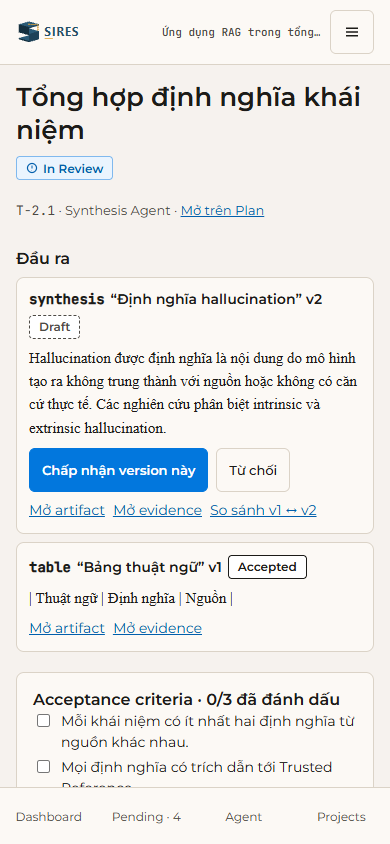
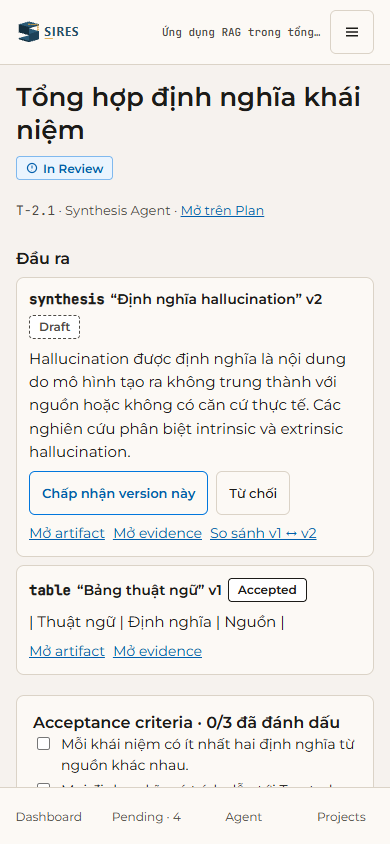
PID-00082: qc-report.md (QC Lần 1 tại 1039cb6), report.md và self-qc.md Lần 2, ảnh 1024×768 (PC-05 P37)
Phiên do PO giao, làm thay assignee congminh1705.

Changed region(s): [[0.0308, 0.4005, 0.9231, 0.9242]]

diff --git a/agent/execution/PID-00082/qc-report.md b/agent/execution/PID-00082/qc-report.md
@@ -1,0 +1,169 @@
+# PID-00082 — Báo cáo QC độc lập
+
+**Kết luận mới nhất:** ĐẠT theo cổng merge của spec-converge (0 CRITICAL, 0 HIGH; 5 MEDIUM: G1–G4, B1; 10 LOW) tại `1039cb6`. sires-ui-review: Chưa đạt (G1, G2 mức Major, mỗi chỗ sửa một dòng; đề nghị sửa trước khi merge). Lần 1, 27/11/2026, đã gồm kiểm trên trình duyệt
+
+- **Ticket:** [PID-00082](../../../docs/tickets/issues/PID-00082/index.html). Hồ sơ chuẩn đọc từ commit `d2edf24` (nhánh của PR #134), vì nhánh của PR chỉ có `index.html` cũ.
+- **Kết quả của Dev:** `report.md`, `implement.md`, `self-qc.md`, `screenshots/` trong `agent/execution/PID-00082/`
+
+QC chạy độc lập với Dev, không sửa mã, không sửa `docs/`. Mỗi lần chạy thêm một mục mới ở cuối file, không ghi đè.
+
+## Lần 1 — 27/11/2026 · spec-converge-skill, sires-ui-review (phần kiểm tĩnh)
+
+- **Người chạy:** phiên QC do PO giao.
+- **Mã nguồn:** PR #145 (`web/planning-pid-00082` → `develop`), commit `1039cb6`. Chỉ đọc trong worktree tách riêng (detached HEAD).
+- **Phạm vi QC:** diff `a9bcc0e...1039cb6`, tức merge-base với `preview/ui-ph02`. Gồm 35 file: 22 file trong `apps/web/src/features/planning/**` và 13 file trong `agent/execution/PID-00082/**`.
+- **Nguồn ý định:** `docs/tickets/issues/PID-00082/**` tại `d2edf24`, gồm `index.html`, `specs/{brief,scope,acceptance,index}.html`, `specs/slices/S01–S07`, `designs/notes.html`, `others/issues.html`. Ngoài ra đối chiếu `docs/api-design`, `docs/ui-design/design.md` và các màn `docs/ui-design/source/{Plan,PlanCompare,TaskReview,GlobalTasks}.dc.html`.
+
+### Khoảng trống
+
+Không có khoảng trống CRITICAL hay HIGH. Cả 13 AC đều có mã và test Vitest đúng tên ở `acceptance.html`, và các test này chạy đạt. Có 23 operation khai mock đúng như H5. Đường dẫn đầu ra khớp O1–O7 (quy tắc 1.4.13). Không có file nào nằm ngoài `web/planning` và `agent/execution/PID-00082`.
+
+| Mã | Nguồn (AC, O, B, nguyên tắc) | Loại | Mức | Bằng chứng (file:dòng) | Việc cần làm |
+| --- | --- | --- | --- | --- | --- |
+| G1 | design.md §1.5, §8 (“Hơn một nút chính tô màu trên một màn”); TaskReview.dc.html:218 (nút “Chấp nhận version này” dạng viền); O1 | contradicts | MEDIUM | `apps/web/src/features/planning/ReviewPage.tsx:326` dùng `data-variant="primary"` cho “Chấp nhận version này”. Ảnh `screenshots/06-review-t21-1440.png` cho thấy nút này tô xanh đặc. Khi có hai đầu ra Draft, hoặc khi “Nghiệm thu” đã bật, màn có từ hai nút xanh đặc trở lên. Theo thang sires-ui-review, đây là lệch mức Major. | Đổi sang `data-variant="outline"` như màn tham chiếu. Ngoài ra rà Plan: khi xem Draft không còn chu trình, “Trình duyệt” (`GraphView.tsx:279`) và “Thực thi” (`TaskPanel.tsx:219`) có thể cùng tô đặc. |
+| G2 | design.md §2.2 dòng 70 (chữ có chân chỉ dùng trong trang PDF preview và đoạn trích evidence); TaskReview.dc.html:212 (Montserrat 17px/1.7) | contradicts | MEDIUM | `apps/web/src/features/planning/planning.css:282` đặt `.planning-output__summary { font-family: var(--sires-font-paper) }`, tức Times New Roman, cho tóm tắt đầu ra. Ảnh 06 và 10 đều hiện chữ có chân. Theo thang sires-ui-review, đây là lệch mức Major. `check-ui.mjs` không bắt được vì giá trị đến từ biến. | Bỏ `font-family` để chữ kế thừa Montserrat. Cỡ chữ và giãn dòng theo màn tham chiếu. |
+| G3 | designs/notes.html (“Mỗi màn có trạng thái … chạy lâu nếu có thao tác dài”); design.md §2.4.1; UX-STATE-001; EC01 | partial | MEDIUM | `apps/web/src/features/planning/PlanPage.tsx:69,83`: sau khi `requestPlanProposal` trả 202 (thân là `Workflow`, `responses.yaml:186-194`), màn chỉ hiện một câu `plan.requested` (`i18n/vi.json:8`). Không có thẻ thao tác dài (ai làm, thời gian đã chạy, liên kết workflow, ghi rõ rời trang được), dù shell có xuất `LongOperation` (`shell/index.ts:38`). | Giữ lại `Workflow` trả về từ 202 rồi hiện `LongOperation` với Orchestrator, `startedAt` và liên kết `/projects/:id/activity/workflows/:wid`. Thêm một test. |
+| G4 | listTasks, listProjects (`docs/api-design/components/parameters.yaml:103-111`: `limit` mặc định 50, có `cursor`); EC05 (“số mỗi nhóm đúng”); P4, P10 | partial | MEDIUM | `PlanPage.tsx:134`, `GlobalTasksPage.tsx:25,27` chỉ đọc trang đầu và bỏ qua `nextCursor`. Plan có hơn 50 Task, hoặc tài khoản có hơn 50 project, sẽ thiếu thẻ và đếm nhóm sai mà không báo gì. Mock luôn trả `nextCursor: null` (`__mocks__/index.ts:106`) nên test không bắt được. | Đọc hết theo `cursor` (hoặc `limit=200` rồi đi tiếp theo `nextCursor`). Thêm test mock phân trang. Cần xong trước khi Hội tụ ở cổng PH-04. |
+| G5 | H11 (RC-04 mở Task tiên quyết); `ReadinessResult.planVersionId` | partial | LOW | `TaskPanel.tsx:350` lấy danh sách Task tiên quyết từ định nghĩa của version đang xem, trong khi readiness tính trên baseline. Ví dụ: xem Draft v5 rồi mở T-2.3 thì RC-04 nêu T-2.2, nhưng màn vẫn hiện thêm nút “Mở T-3.1”. | Lấy `dependsOn` từ `task.currentDefinition`, hoặc từ version `lastReadiness.planVersionId`. |
+| G6 | designs/notes.html (“Trình duyệt … đặt cạnh bộ chọn version theo design.md §4”) | partial | LOW | `PlanPage.tsx:231-245` cùng `GraphView.tsx:278-283` đặt “Trình duyệt” thành một hàng riêng dưới banner (ảnh 03). | Đưa nút lên hàng điều khiển ở header, hoặc ghi lại là lệch có lý do. |
+| G7 | UX-TASK-005 (nút vô hiệu có lý do đúng) | partial | LOW | `TaskPanel.tsx:235` cùng `i18n/vi.json:94` dùng một câu “Task đang {{status}}: chưa thực thi được…” cho mọi trường hợp: Ready nhưng readiness chưa đạt hoặc chưa biết (thành “Task đang Ready: chưa thực thi được”), và cả Completed, Cancelled. | Tách câu theo nguyên nhân: readiness chưa đạt, đang chạy, đã kết thúc. |
+| G8 | EC30, H13 | partial | LOW | `ComparePage.tsx:47,69,83`: mở so sánh của chính baseline (v3) thì `against` mặc định là v3 (so với chính nó, ra “+0 −0 ~0”). Ô “so với” không có v3 trong danh sách nên lại hiện một version khác. | Khi version đang xem là baseline, mặc định so với `basedOnVersionId`. Nếu không có, ghi “không có bản để so”. |
+| G9 | UX-PLAN-001-AC01; PlanCompare.dc.html:275 (“Dependency: thêm T-2.8 (trước đây chỉ T-2.3)”) | partial | LOW | `ComparePage.tsx:216` hiện “Dependency: T-2.3 → T-2.3, T-2.2”, dùng lại mũi tên vốn chỉ chiều phụ thuộc trên cùng màn. `value()` nối thẳng `before/after`. Mock đổi id sang mã Task (`__mocks__/store.ts:177-184`), còn hợp đồng chỉ ví dụ `path`. Nếu server trả id, màn sẽ hiện UUID. | Ghi “thêm …/bỏ …” hoặc “trước: … · sau: …”. Đổi id sang `stableKey` khi giá trị là `taskId`. |
+| G10 | ticket mục 8 (thao tác tay); EC16 | partial | LOW | `__mocks__/fixtures.ts:266-291` không có Task agent nào ở trạng thái Ready với readiness Đạt, cũng không có Queued, Failed, Cancelled. Vì vậy trên `dev:mock` không mở tay được dialog “Thực thi” (chỉ test phủ). | Thêm một Task agent Ready có readiness Đạt, ví dụ một Task phase 3. Cách khác là ghi hướng dẫn kịch bản trong `implement.md`. |
+| G11 | design.md §7 (`aria-live` cho trạng thái động); UX-STATE-001 | partial | LOW | `TaskPanel.tsx:380-383`: khối readiness và chip trạng thái đổi theo SSE hoặc “Chạy lại readiness” nhưng không có vùng `aria-live` hay `role="status"`. | Thêm `role="status"` (polite) cho dòng kết quả readiness và trạng thái Task. |
+| G12 | ticket mục 8, designs/notes.html (kiểm 1440×900 và 1024×768) | partial | LOW | `agent/execution/PID-00082/self-qc.md:21` chỉ ghi 1440×900 và 390×844, chưa kiểm 1024×768. | Phiên điều phối kiểm ở 1024×768 (xem danh sách dưới). |
+| G13 | UX-TASK-003-AC01; H10 | partial | LOW | `TaskPanel.tsx:697-700` gán artifact cho lần chạy theo khoảng `startedAt`–`endedAt`, vì `Artifact` không có `workflowId`. Dev đã báo (G10 của Dev, `report.md` mục 6). | Chờ PO quyết yêu cầu hợp đồng (thêm `workflowId` hoặc query `workflowId`). Không chặn lượt này. |
+
+Không tính là khoảng trống: YC2 (giả định dự phòng, If-Match dựng từ `rowVersion`) và YC3 (fixture Artifact của T-2.1). Cả hai đã ghi ở `report.md` mục 5 kèm lý do.
+
+### AC
+
+| AC | Trạng thái | Mức kiểm | Test | Kết quả lệnh |
+| --- | --- | --- | --- | --- |
+| PID-00082-AC01 | đạt | stub (mock của khu vực và mock của PID-00013) | `task.spec.tsx › lý do chặn kèm hành động (PID-00082-AC01, UX-TASK-004-AC01, EC14)` | đạt. Mã: `TaskPanel.tsx:123,219,339-369,371-401` |
+| PID-00082-AC02 | đạt | stub | `plan.spec.tsx › chu trình chặn trình duyệt (PID-00082-AC02, EC10)` | đạt. Mã: `graph.ts:35-103`, `GraphView.tsx:238-283` (không có request `/submit`) |
+| UX-PLAN-001-AC01 | đạt (câu chữ: G9) | stub | `compare.spec.tsx › dependency thay đổi (UX-PLAN-001-AC01, EC24)` | đạt |
+| UX-PLAN-002-AC01 | đạt | stub | `compare.spec.tsx › giả định trước nút Duyệt (UX-PLAN-002-AC01, EC27)` | đạt. Mã: `ComparePage.tsx:295-300,340-386` |
+| UX-TASK-001-AC01 | đạt (với ≤ 50 Task: G4) | stub | `plan.spec.tsx › lọc label (UX-TASK-001-AC01, EC05)` | đạt |
+| UX-TASK-002-AC01 | đạt | stub | `plan.spec.tsx › đồ thị Task bị chặn (UX-TASK-002-AC01, EC09)` | đạt |
+| UX-TASK-003-AC01 | đạt (gán theo thời gian: G13) | stub | `task.spec.tsx › lịch sử hai lần chạy (UX-TASK-003-AC01, EC21)` | đạt |
+| UX-TASK-004-AC01 | đạt | stub | `task.spec.tsx › lý do chặn kèm hành động` (T-2.6, RC-08 → `/settings/agents`) | đạt |
+| UX-TASK-005-AC01 | đạt | stub | `task.spec.tsx › Blocked không thực thi (UX-TASK-005-AC01, EC15)` | đạt |
+| UX-TASK-006-AC01 | đạt | stub | `review.spec.tsx › criterion chưa đánh dấu (UX-TASK-006-AC01, EC31)` | đạt |
+| UX-LABEL-001-AC01 | đạt | stub | `plan.spec.tsx › label có biểu tượng và chữ (UX-LABEL-001-AC01, EC08)` | đạt |
+| UX-LABEL-002-AC01 | đạt | stub | `task.spec.tsx › Task manual (UX-LABEL-002-AC01, EC18)` | đạt |
+| PLAN-GENERATE-001-AC02 (phần nhãn) | đạt | stub | `plan.spec.tsx › nhãn thảo luận (PLAN-GENERATE-001-AC02, EC04)` | đạt |
+
+EC01–EC40: mỗi EC đều có mã và test đúng tên ở `scope.html`, trừ EC38. EC38 là kiểm tay: CSS có `@media (max-width: 720px)` (`planning.css:335-344`) xếp một cột, nút quyết định cao tối thiểu 44 px, bảng chuyển thành khối. Ảnh 09 và 10 của Dev cho thấy không cuộn ngang. Phần này để phiên điều phối kiểm lại.
+
+Kiểm riêng theo yêu cầu:
+
+- **Đường dẫn đầu ra:** O1 `features/planning/`; O2 `__mocks__/` (`mocks.config.json` 23 operation, đúng danh sách H5, không chiếm operation của PID-00058, PID-00059 hay khu vực research); O3–O7 đúng tên `task.spec.tsx`, `plan.spec.tsx`, `compare.spec.tsx`, `review.spec.tsx`, `global-tasks.spec.tsx`. `testing.tsx` là harness test nằm trong thư mục của khu vực.
+- **Ranh giới:** mã sản phẩm chỉ import `../../shell` (hợp đồng Feature, client API, SSE, kho nháp, chip). Mock và test import thêm `shell/mock`, `shell/test`. Không sửa file của shell hay khu vực khác. `check-tracks.mjs --base a9bcc0e` báo chạm hai luồng: `repo` (là `agent/execution/PID-00082`) và `web/planning`.
+- **Hợp đồng:** 31 operation gọi qua client có type (`useApi`). Idempotency-Key có ở mọi lệnh mà hợp đồng khai `IdempotencyKey` (requestPlanProposal, submit, approve, reject, withdraw, activate, dequeue, cancel, reopen, submitManualWork, reviewTask, accept/rejectArtifactVersion). If-Match có ở `updatePlanVersionDraft`, `updateTaskChecklist`. Duyệt gửi `versionNumber`. Không viết tay kiểu dữ liệu của hợp đồng (dùng `PublicApi.components['schemas']`).
+- **i18n:** `vi.json` và `en.json` cùng 262 khóa, không lệch. Mọi khóa gọi trong mã đều có. Các họ khóa động (`compare.effect.*`, `review.reason.*`, `review.outcome.*`, `compare.op.*`) phủ đủ enum của hợp đồng. Không có chuỗi cứng trong component; tên trạng thái và label giữ tiếng Anh.
+- **Trạng thái:** đang tải, trống, lỗi dùng `LoadingState`, `EmptyState`, `ErrorState` của shell ở cả bốn màn và panel. Chạy lâu còn thiếu ở yêu cầu đề xuất Plan (G3).
+- **Dưới 768 px:** có xử lý ở breakpoint 720 px. Board và đồ thị cuộn ngang trong thẻ (H17). Chưa kiểm 1024×768 (G12).
+- **`self-qc.md`, `report.md`:** số liệu khớp kết quả QC tự chạy (42 test, check-ui 0 lỗi và 3 cảnh báo, add-license 0). `check-pid.mjs --result` báo đủ. Chỗ lệch ghi ở mục dưới.
+
+### Lệnh đã chạy
+
+| Lệnh | Kết quả |
+| --- | --- |
+| `pnpm --filter @sires/web exec vitest run src/features/planning`, chạy bằng `apps/web/node_modules/.bin/vitest run src/features/planning` | Đạt: 5 file, 42 test, 32,3 s |
+| `tsc -p apps/web/tsconfig.json --noEmit` (local) | Không chạy đủ: `@sires/contracts` chưa build trong worktree (`libs/ts/contracts/dist` không có, đây là file sinh). 1091 lỗi đều bắt nguồn từ “Cannot find module '@sires/contracts'” và kiểu `never` kéo theo. Không build thêm vì worktree chỉ đọc. Thay bằng kết quả CI ở dòng dưới. |
+| CI của PR #145 trên `1039cb6` (`gh pr view 145`) | `typescript` (chạy `nx run-many -t lint typecheck test build` cho dự án bị ảnh hưởng): SUCCESS. `tracks`, `docs`, `contracts`, `contract-test`, `build`, `secrets`: SUCCESS. |
+| `eslint src/features/planning` (trong `apps/web`) | Đạt (exit 0). Chỉ có cảnh báo “No cached ProjectGraph” của `@nx/enforce-module-boundaries` vì chạy ngoài Nx. |
+| `node agent/skills/qc/sires-ui-review/scripts/check-ui.mjs apps/web/src/features/planning` | 0 error, 3 warn, cùng một chỗ: `planning.css:327` `box-shadow: var(--sires-shadow-float)` của `.planning-dialog`. Hợp lệ vì dialog là lớp nổi (design.md §2). |
+| `node scripts/development/check-tracks.mjs --base a9bcc0e` | Chạm hai luồng: `repo`, `web/planning` |
+| `node scripts/docs/add-license.mjs --check` | 0 file chưa có thông báo giấy phép |
+| `node agent/skills/dev/spec-execution-skill/scripts/check-pid.mjs PID-00082 --result` | KẾT QUẢ ĐỦ (0 cảnh báo); trạng thái “Xong — chờ QC” |
+| dev server, trình duyệt | Không chạy theo yêu cầu. Phiên điều phối tự xem. |
+
+### sires-ui-review: phần kiểm tĩnh và đối chiếu ảnh của Dev
+
+Kết luận theo thang của skill: **Chưa đạt**, vì có 2 lệch Major (G1, G2). Cả hai sửa trong một dòng mỗi chỗ. Chưa kiểm trực quan trên trình duyệt; ở đây chỉ so JSX và CSS với HTML tham chiếu và xem ảnh Dev chụp.
+
+| Mục | Kết quả |
+| --- | --- |
+| Token | Lệch ở G2 (chữ có chân). Ngoài chỗ đó, màu, bo góc, bóng đều qua biến của `tokens.css`. |
+| Bố cục | Đạt so với Plan, Plan--view-graph-cycle, PlanCompare, TaskReview, GlobalTasks. Lệch nhỏ ở G6. Chế độ Checklist, Timeline chưa dựng vì I1 (ngoài phạm vi, N2). |
+| Trạng thái | Đạt. Chip và execution label của shell. Plan Version Draft, Proposed theo bảng bổ sung (H4). |
+| Chrome yên lặng | Lệch ở G1 (nhiều nút chính tô màu). |
+| Chữ | Đạt, trừ G2. |
+| Quyết định | Đạt: giả định hiện trước Duyệt, Từ chối bắt buộc lý do, hệ quả đặt trước nút, nút vô hiệu có lý do (câu chữ: G7). |
+| A11y | Đạt phần lớn: tab theo mẫu WAI-ARIA, dialog giữ Tab, Escape, trả focus; vùng đồ thị có `tabIndex`; focus ring toàn cục. Thiếu `aria-live` (G11). |
+| Chuyển động | Không có animation, transition riêng; check-ui không báo. |
+| Tác vụ chạy lâu | Thiếu ở G3. |
+| Song ngữ | Đạt (vi/en đủ khóa; ngày `dd/mm/yyyy` qua `formatDateTime`). |
+
+### Lệch với Self-QC
+
+- `self-qc.md:89` ghi TaskReview “khớp bố cục”. QC thấy hai lệch so với màn tham chiếu và design.md: nút “Chấp nhận version này” tô đặc (G1), tóm tắt đầu ra dùng chữ có chân (G2).
+- `self-qc.md` mục 3 ghi EC01 “đã giải quyết”. Phần chức năng thì đúng, nhưng trạng thái chạy lâu sau khi gửi yêu cầu Plan chưa theo §2.4.1 (G3).
+- `self-qc.md:21` chưa có kiểm tay ở 1024×768 mà ticket mục 8 và designs/notes yêu cầu (G12).
+- Phân trang `listTasks` và `listProjects` (G4) không có trong tự đối chiếu của Dev.
+- Typecheck: Dev ghi “Đạt”. QC không tự chạy đủ được ở local (xem bảng lệnh), nhưng CI `typescript` trên `1039cb6` đạt, nên không coi là lệch.
+
+### Việc còn lại, theo thứ tự phụ thuộc
+
+1. Đổi “Chấp nhận version này” sang nút viền, rồi rà để màn chỉ còn một nút chính tô màu (G1).
+2. Bỏ chữ có chân ở tóm tắt đầu ra (G2).
+3. Dùng `LongOperation` cho yêu cầu đề xuất Plan đang chạy (G3, EC01).
+4. Đọc hết các trang của `listTasks`, `listProjects` và thêm test phân trang (G4, EC05). Có thể để sau, nhưng phải xong trước Hội tụ PH-04.
+5. Các việc LOW, làm khi tiện: G5, G7, G8, G9, G11. Thêm fixture cho thao tác tay (G10). Ghi lại hoặc sửa vị trí nút “Trình duyệt” (G6).
+6. Kiểm tay ở 1024×768 (G12), do phiên điều phối làm.
+
+### Đề xuất cho PO
+
+- PR #145 vào `develop` hiện có 100 file và 32 commit, vì xếp chồng trên `preview/ui-ph02` (#120, #138, #131). Chỉ 35 file thuộc PID này. Cần merge theo thứ tự đã ghi ở `report.md` mục 4 (#120, #138, #131, #134 trước), hoặc đổi base, để PR còn đúng một luồng.
+- Đồng ý với ba đề xuất của Dev ở `report.md` mục 6:
+  - shell giữ các trường mở rộng của Problem (`readiness` trong 409);
+  - sửa chú thích `Feature.mocks`;
+  - đổi deep link pending action sang v4.
+- Yêu cầu hợp đồng `workflowId` cho `Artifact` hoặc `listArtifacts` (G13) chờ PO quyết bằng `contract-updating-skill`.
+- Hợp đồng `PlanDiff.changes[].before/after` chưa nói giá trị `dependsOn` là `taskId` hay `stableKey` (G9). Nên ghi rõ trước Hội tụ.
+- I1 vẫn mở, không chặn.
+
+## Kiểm trên trình duyệt
+
+Người chạy: phiên QC do PO giao, 27/11/2026. Worktree QC tách riêng ở đúng head `1039cb6` (detached, không sửa nhánh PR): `pnpm install --frozen-lockfile`, rồi `dev:mock` (`node src/shell/mock/generate.mjs && vite --mode mock`, cổng 5281). Xem ở 1440×900 và 390×844, giao diện VI.
+
+| Màn | Đã xem | Kết quả |
+| --- | --- | --- |
+| `/tasks` | 1440 | Nhóm theo trạng thái, bộ lọc Project, Execution label, Agent; mỗi Task mở về `/projects/<id>/plan?task=…`; trạng thái đang tải hiện skeleton |
+| `/projects/P/plan?task=T05` | 1440, 390 | Bộ chọn version (v3 baseline), “Qua thảo luận · Deliberation Record”, “So sánh version”, board, bộ lọc Phase, label, agent; panel T-2.4 manual: readiness check, “Bắt đầu thực hiện”, “Hủy Task”, checklist, lịch sử workflow. 390: trang không cuộn ngang (`scrollWidth` = `clientWidth` = 390), board cuộn ngang trong khung riêng |
+| `?view=graph` | 1440 | Đồ thị baseline có chú giải, cạnh chặn; danh sách Task bị chặn và Task không có dependency |
+| `/projects/P/plan/versions/V4` | 1440, 390 | So sánh v4 ↔ v3, nhãn “Thay đổi lớn · MC-01”, bảng thay đổi Task; thanh duyệt: “Duyệt v4”, “Từ chối” khóa tới khi nhập lý do, “Sửa thành bản Draft mới”. 390: không cuộn ngang |
+| `/projects/P/tasks/T22` | 1440, 390 | Hai đầu ra (synthesis v2 Draft, table v1 Accepted), checklist ba tiêu chí (mỗi ô có label), “Nghiệm thu” khóa kèm lý do, “Trả lại” cần lý do và phản hồi, “Hủy Task”. 390: không cuộn ngang |
+
+- Console: không có lỗi, chỉ log của MSW.
+- Nhãn tiếng Anh khi chọn VI (“Plan and Tasks”, “Board”, “Dependency graph”, tên trạng thái, execution label): khớp shell (`rail.area.plan` ở cả hai ngôn ngữ) và design.md (UX-I18N-003, execution label luôn tiếng Anh). Không tính lỗi.
+
+Phát hiện thêm trên trình duyệt:
+
+| G | Loại | Mức | Mô tả | Bằng chứng | Đề xuất |
+| --- | --- | --- | --- | --- | --- |
+| B1 | partial | MEDIUM | Trên `dev:mock` không đi hết được luồng nghiệm thu S06. Bấm “Chấp nhận version này” ở T-2.1 gửi `POST …/artifacts/{artifactId}/versions/{versionId}/accept`. Mock của khu vực không có thao tác này (`__mocks__/mocks.config.json`: 23 operation, không có accept/reject của artifact), nên mock sinh tự động trả 200 với dữ liệu mẫu. Store không đổi, danh sách artifact đọc lại vẫn `Draft`, “Nghiệm thu” luôn khóa. `review.spec.tsx` dùng handler riêng nên test vẫn đạt | `ReviewPage.tsx:302`; network: `POST …/5c…021/versions/5d…021/accept` → 200, `GET …/artifacts?taskId=…022` → `latestVersion.status: "Draft"` | Thêm accept/reject version của artifact vào mock của khu vực (cập nhật store), hoặc ghi rõ phụ thuộc mock của khu vực research |
+| B2 | contradicts | (xác nhận G2) | Tóm tắt đầu ra dùng chữ có chân. Trên màn thấy rõ đoạn synthesis kiểu Times; `TaskReview.dc.html` dùng Montserrat 17px cho đoạn này | `planning.css:282`; design.md:70 | Như G2 |
+| B3 | partial | LOW | Tóm tắt đầu ra loại `table` hiện nguyên chuỗi markdown `\| Thuật ngữ \| Định nghĩa \| Nguồn \|` | Màn T-2.1, thẻ “Bảng thuật ngữ” v1 | Bỏ ký tự bảng khi tóm tắt, hoặc hiện vài dòng đầu dạng bảng |
+
+Chưa xem trên trình duyệt: 1024×768 (G12), dialog Thực thi của Task agent (G10, fixture không có), các route trống, Archived và lỗi (mục 6, 7 trong danh sách đề nghị).
+
+Lệnh do phiên điều phối chạy trên worktree QC:
+
+| Lệnh | Kết quả |
+| --- | --- |
+| `pnpm exec vitest run src/features/planning` | 5 file, 42/42 đạt |
+| `pnpm exec eslint src/features/planning` | 0 lỗi (luật ranh giới Nx bỏ qua vì không có project graph cục bộ) |
+| `pnpm run typecheck` (`apps/web`) | không kết luận được — `@sires/contracts` không resolve trong worktree QC, kể cả sau `nx run @sires/contracts:generate`; lỗi phủ cả mã ngoài PR. CI của PR: `typescript` và 25 check đạt ở `1039cb6` |
+
+### Kết luận sau khi kiểm trên trình duyệt
+
+- **spec-converge (cổng merge): ĐẠT** — 0 CRITICAL, 0 HIGH; MEDIUM: G1–G4, B1; LOW: G5–G13, B3.
+- **sires-ui-review: Chưa đạt** — G1 (hai nút chính trên màn nghiệm thu) và G2 (font serif) là mức Major theo thang của skill. Mỗi chỗ sửa một dòng; đề nghị sửa trước khi merge.
+
+---
+
+<!-- SPDX-License-Identifier: LicenseRef-eTroy-NC-1.0 -->
+SIRes — Copyright © 2026 The eTroy development team · eTroy One platform. Sole decision-maker: PO Trịnh Quang Trung. Non-commercial use only; commercial use in any form is prohibited. See [LICENSES.md](../../../LICENSES.md).

diff --git a/agent/execution/PID-00082/report.md b/agent/execution/PID-00082/report.md
@@ -4,8 +4,8 @@
 
 - **Ticket:** [PID-00082](../../../docs/tickets/issues/PID-00082/index.html) · **Luồng:** `web/planning` · **Giai đoạn:** PH-02 (Xây với mock)
 - **Nhánh:** `web/planning-pid-00082` (tạo từ `origin/preview/ui-ph02` `a9bcc0e`, nhánh tích hợp đã có #120, #138, #131; đã commit có chữ ký và push) · **PR:** [toilatrung/sires#145](https://github.com/toilatrung/sires/pull/145) vào `develop`
-- **Cập nhật:** 27/11/2026
-- **Triển khai:** [implement.md](implement.md) · **Self-QC:** [self-qc.md](self-qc.md)
+- **Cập nhật:** 27/11/2026 (Lần 2: sửa theo QC Lần 1 tại `1039cb6`, PC-05 P37)
+- **Triển khai:** [implement.md](implement.md) · **Self-QC:** [self-qc.md](self-qc.md) · **QC:** [qc-report.md](qc-report.md)
 
 Lần chạy sau cập nhật trạng thái ở trên và thêm mục `Lần N — dd/mm/yyyy` ở cuối file, không ghi đè.
 
@@ -79,6 +79,26 @@ Ngoài khu vực: không sửa file nào của shell hay khu vực khác. Kết 
   - `screenshots/08-plan-390.png` — Plan ở 390×844 — S02
   - `screenshots/09-compare-v4-390.png` — so sánh ở 390×844 (EC38) — S05
   - `screenshots/10-review-t21-390.png` — nghiệm thu ở 390×844 (EC38) — S06
+  - `screenshots/11-plan-draft-panel-1024.png` — Draft v5 kèm panel Task ở 1024×768, chỉ “Trình duyệt” tô màu (Lần 2, QC G1, G12) — S03, S04
+  - `screenshots/12-review-t21-1024.png` — nghiệm thu ở 1024×768 (Lần 2, QC G12) — S06
+
+
+## Lần 2 — 27/11/2026
+
+Sửa theo [qc-report.md](qc-report.md) Lần 1 (spec-converge ĐẠT tại `1039cb6`, 5 MEDIUM; sires-ui-review chưa đạt: G1, G2 mức Major), chốt theo đề xuất của QC (phiên điều phối giao). Đã merge đầu mới nhất của #138 (`b157d02`), có `ConfirmDialog` của shell. Mọi đường dẫn mã tương đối `apps/web/src/features/planning/`.
+
+| QC | Mức | Đã làm | Kiểm bằng |
+| --- | --- | --- | --- |
+| G1 | MEDIUM (Major theo sires-ui-review) | “Chấp nhận version này” là nút viền (TaskReview.dc.html:218); màn nghiệm thu chỉ “Nghiệm thu” tô màu. Rà Plan: xem Draft kèm panel Task thì “Thực thi” và các nút chính của Task manual (“Bắt đầu thực hiện”, “Gửi”) dạng viền (prop `quiet` của `TaskPanel`), chỉ “Trình duyệt” tô màu | `review.spec.tsx › một nút chính tô màu; tóm tắt đầu ra dùng chữ giao diện…`, `plan.spec.tsx › Draft kèm panel Task: chỉ Trình duyệt tô màu`; trên `dev:mock` đếm `[data-variant="primary"]`: nghiệm thu `["Nghiệm thu"]`, Draft kèm panel `["Trình duyệt"]`; ảnh 06, 11, 12 |
+| G2 | MEDIUM (Major theo sires-ui-review) | Bỏ `font-family: var(--sires-font-paper)` của `.planning-output__summary`: chữ giao diện (Montserrat) | Test như trên đọc `planning.css`; trên `dev:mock` `getComputedStyle` = `Montserrat, system-ui, sans-serif`; ảnh 06, 10 |
+| G3 | MEDIUM | Sau 202 của `requestPlanProposal`: `LongOperation` của shell (“Orchestrator đang đề xuất Plan…”, Orchestrator, thời gian đã chạy, rời trang được) kèm liên kết “Xem workflow” tới `/projects/:id/activity/workflows/:wid`; mock trả `Workflow` trong 202 | `plan.spec.tsx › đang đề xuất: thẻ thao tác dài theo Workflow của 202 (EC01, …)` |
+| G4 | MEDIUM | `readAll` (`common.tsx`) đọc hết các trang theo `nextCursor`, `limit` 200: `listTasks` của Plan, `listProjects` và `listTasks` từng project của Tasks toàn cục | `plan.spec.tsx › listTasks nhiều trang: đủ thẻ và số mỗi nhóm`, `global-tasks.spec.tsx › listProjects nhiều trang…` |
+| B1 | MEDIUM | Không khai thêm `acceptArtifactVersion`, `rejectArtifactVersion` ở mock của khu vực: hai thao tác này và `listArtifacts` đã thuộc mock của khu vực research (PID-00114, có trên `preview/ui-ph02`); khai cả hai nơi thì mock gộp ném lỗi (EC10). Ghi phụ thuộc ở đầu `__mocks__/index.ts` (theo phương án thứ hai của QC) | — |
+| Dialog | Phiên điều phối | `ConfirmDialog` riêng của khu vực thay bằng `ConfirmDialog` của shell (#138); bỏ CSS `.planning-scrim`, `.planning-dialog` (hết 3 cảnh báo `box-shadow` của check-ui) | Test cũ của dialog (`task.spec.tsx`, `review.spec.tsx`) đạt; trên `dev:mock` “Hủy Task” mở `.sires-dialog`, focus ở “Giữ nguyên”, nút xác nhận khóa tới khi nhập lý do, Esc đóng |
+
+LOW (G5–G11, G13, B3) chưa sửa ở lượt này; G12 (1024×768) đã kiểm bằng ảnh 11, 12. Đề xuất cho PO ở mục 6 giữ nguyên; QC đồng ý ba đề xuất đó.
+
+Kết quả: 26 file, 196 test đạt; planning 47 test; typecheck, lint đạt; check-ui 0 lỗi, 0 cảnh báo (self-qc.md Lần 2). Trạng thái giữ “Xong — chờ QC”.
 
 ---
 

diff --git a/agent/execution/PID-00082/self-qc.md b/agent/execution/PID-00082/self-qc.md
@@ -3,7 +3,7 @@
 **Kết luận:** Đạt
 
 - **Ticket:** [PID-00082](../../../docs/tickets/issues/PID-00082/index.html) · **Báo cáo:** [report.md](report.md) · **Triển khai:** [implement.md](implement.md)
-- **Cập nhật:** 27/11/2026
+- **Cập nhật:** 27/11/2026 (Lần 2)
 
 Chỉ ghi kết quả thật của lệnh đã chạy. Không chạy được thì ghi “không chạy — lý do”. Test lỗi là lỗi, không ghi “đạt”. Lần chạy sau cập nhật kết luận và thêm mục `Lần N — dd/mm/yyyy` ở cuối file, không ghi đè.
 
@@ -118,6 +118,20 @@ Chạy bởi một agent độc lập, chỉ đọc mã (commit `eb7867e`) và h
 | G20 | unrequested, LOW | Dự phòng giả định từ `version.assumptions`; If-Match dựng từ `rowVersion` khi thiếu ETag | Giữ, ghi report.md mục 5 YC2 |
 
 Sau khi sửa: 0 CRITICAL, 0 HIGH; còn 2 LOW giữ có lý do (G10, G16 phần fixture) và 1 LOW báo PO (G20).
+
+
+## Lần 2 — 27/11/2026
+
+Sửa theo QC Lần 1 (report.md Lần 2). Đã merge `b157d02` (#138) vào nhánh.
+
+| Lệnh | Kết quả |
+| --- | --- |
+| `npx vitest run src/features/planning` (apps/web) | 5 file, 47 test đạt (42 cũ, 5 mới) |
+| `npx vitest run` (toàn bộ apps/web, sau khi merge #138) | 26 file, 196 test đạt |
+| `tsc --noEmit -p tsconfig.json`, `eslint src/features/planning` (apps/web) | Đạt, 0 lỗi |
+| `check-ui.mjs apps/web/src/features/planning` | 0 lỗi, 0 cảnh báo (3 cảnh báo `box-shadow` của dialog riêng hết khi dùng dialog của shell) |
+| Thao tác tay trên `dev:mock` | Nghiệm thu T-2.1 ở 1440×900, 1024×768, 390×844: một nút tô màu (“Nghiệm thu”), tóm tắt Montserrat, không cuộn ngang; Draft v5 kèm panel T-2.5 ở 1024×768: chỉ “Trình duyệt” tô màu; “Hủy Task” mở dialog của shell, Esc đóng. Ảnh `screenshots/06-…`, `10-…`, `11-plan-draft-panel-1024.png`, `12-review-t21-1024.png` |
+| `add-license --check` | 0 file thiếu |
 
 ---
 
